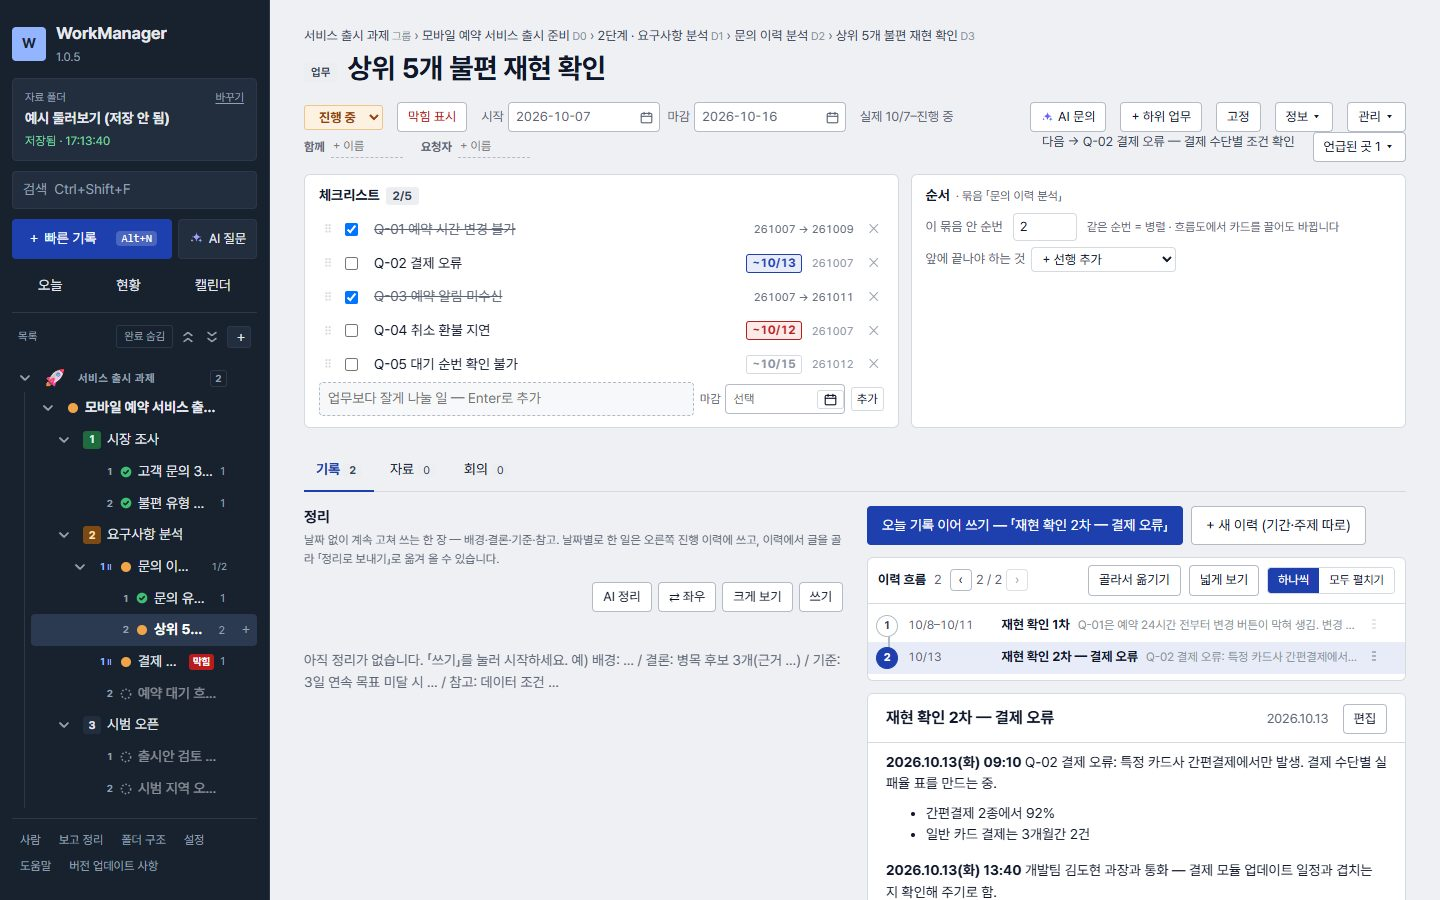
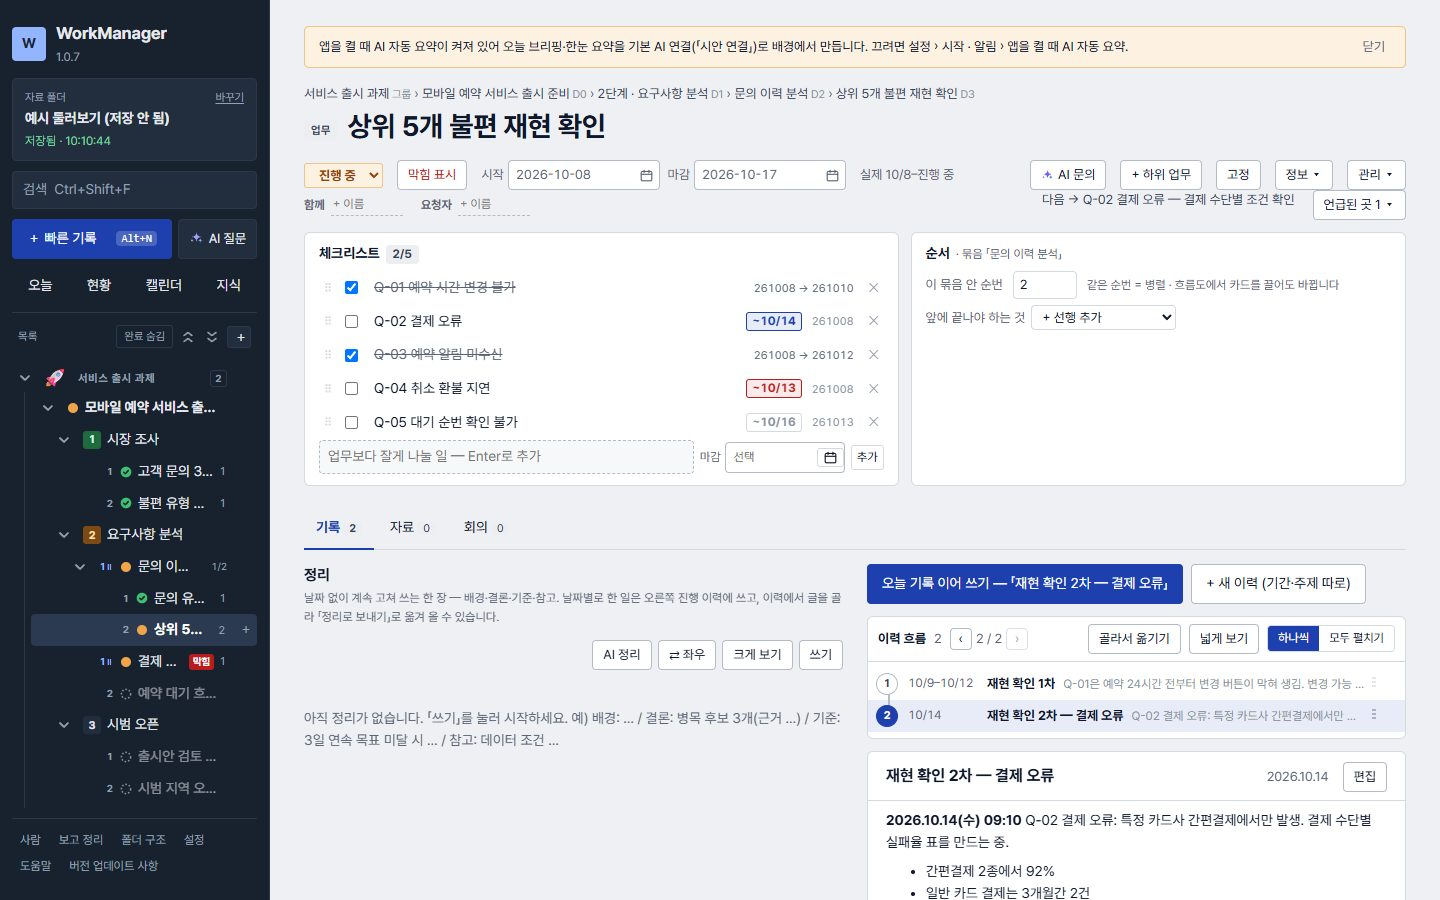
docs: publish WorkManager 1.0.7 guide and knowledge screens
Agent: Codex

diff --git a/README.md b/README.md
@@ -2,7 +2,7 @@
 
 흐름으로 업무를 관리하고, 쌓인 기록을 AI로 요약·정리하는 Windows 개인 업무 관리 앱입니다.
 
-**최신 버전: 1.0.5** · Windows (x64)
+**최신 버전: 1.0.7** · Windows (x64)
 
 | 필요한 것 | 바로가기 |
 |---|---|
@@ -36,15 +36,19 @@
 
 AI 기능은 쓰는 사람이 직접 연결해야 켜집니다(**설정 › AI 연결**). OpenAI 호환 API나 회사 안의 LLM 서버를 등록할 수 있고, 여러 개를 등록해 골라 쓸 수 있습니다. 연결하지 않아도 기록·흐름·일정 기능은 모두 쓸 수 있습니다.
 
-- AI 연결이 있으면 앱을 켤 때와 자정을 넘길 때 오늘 브리핑·한눈 요약을 등록한 주소로 자동 전송해 만듭니다. 기본은 켜짐이며 자동 요청은 하루 합계 5개까지입니다(실패·중단 포함). **설정 › 시작 · 알림**에서 끄거나 개수를 바꿀 수 있습니다.
+- AI 연결이 있으면 앱을 켤 때와 자정을 넘길 때 오늘 브리핑·한눈 요약을 등록한 주소로 자동 전송해 만듭니다. 기본은 켜짐이며 켤 때 배경 요청은 기본 하루 5개까지입니다. 직접 연 화면의 한눈 요약은 별도로 하루 40개까지 만듭니다(실패·중단 포함). **설정 › 시작 · 알림**에서 끄거나 개수를 바꿀 수 있습니다.
 - AI 정리·보고는 보내기 전에 보낼 글 전문을 확인할 수 있습니다.
-- AI 질문의 기본 범위는 **일반 질문**입니다. **내 기록 전체**로 바꾸면 관련 업무·회의·사람 기록을 골라 함께 보냅니다. 답 아래 보낸 기록에서 근거를 확인할 수 있습니다.
+- AI 질문의 기본 범위는 **일반 질문**입니다. **내 기록 전체**로 바꾸면 관련 업무·회의·사람·지식 기록을 골라 함께 보냅니다. 답 아래 보낸 기록에서 근거를 확인할 수 있습니다.
 - 범위를 바꾸면 새 대화가 시작되고, 이력에서 이전 범위와 대화를 다시 열 수 있습니다.
 - API 키는 이 PC의 앱 설정에만 저장되고 자료 폴더에는 들어가지 않습니다.
 
-## 1.0.5 변경 내용
+## 1.0.7 변경 내용
 
-개요의 한눈 요약과 오늘 브리핑을 배경에서 하나씩 자동으로 만듭니다. 추가 요청은 업무·대상마다 따로 기억하고, 체크리스트에 기간을 지정해 캘린더에서 양 끝을 조절할 수 있습니다. 프로젝트 캘린더에 단계 범례·번호를 더하고 새 튜토리얼 흐름도를 확장했습니다.
+업무 지식 카드를 글·SQL·표·그림으로 저장하고 꼬리표와 관련 업무를 연결합니다. AI 질문에서 지식을 찾아 답하고, 꼬리표를 제안받을 수 있습니다. 한눈 요약은 지난 요약과의 변화를 표시하며 현황에 챙길 것을 모읍니다.
+
+프로젝트·단계 아래의 왼쪽 업무 목록은 흐름도 순번을 따라 표시합니다. 흐름도나 업무 목록에서 순서를 바꾸면 양쪽에 반영되고, 병렬 업무는 같은 순번을 유지합니다. 첫 화면은 현황이며 캘린더와 긴 기간 표시도 개선했습니다.
+
+1.0.6 변경을 포함한 묶음 배포입니다. 1.0.6은 별도로 배포하지 않습니다. 이전 앱으로 같은 폴더를 열어도 지식 파일은 남지만, 지식 카드에만 붙인 그림이 예전 앱의 ‘쓰이지 않는 첨부’로 보일 수 있으니 지우지 마세요.
 
 ## 업데이트
 
